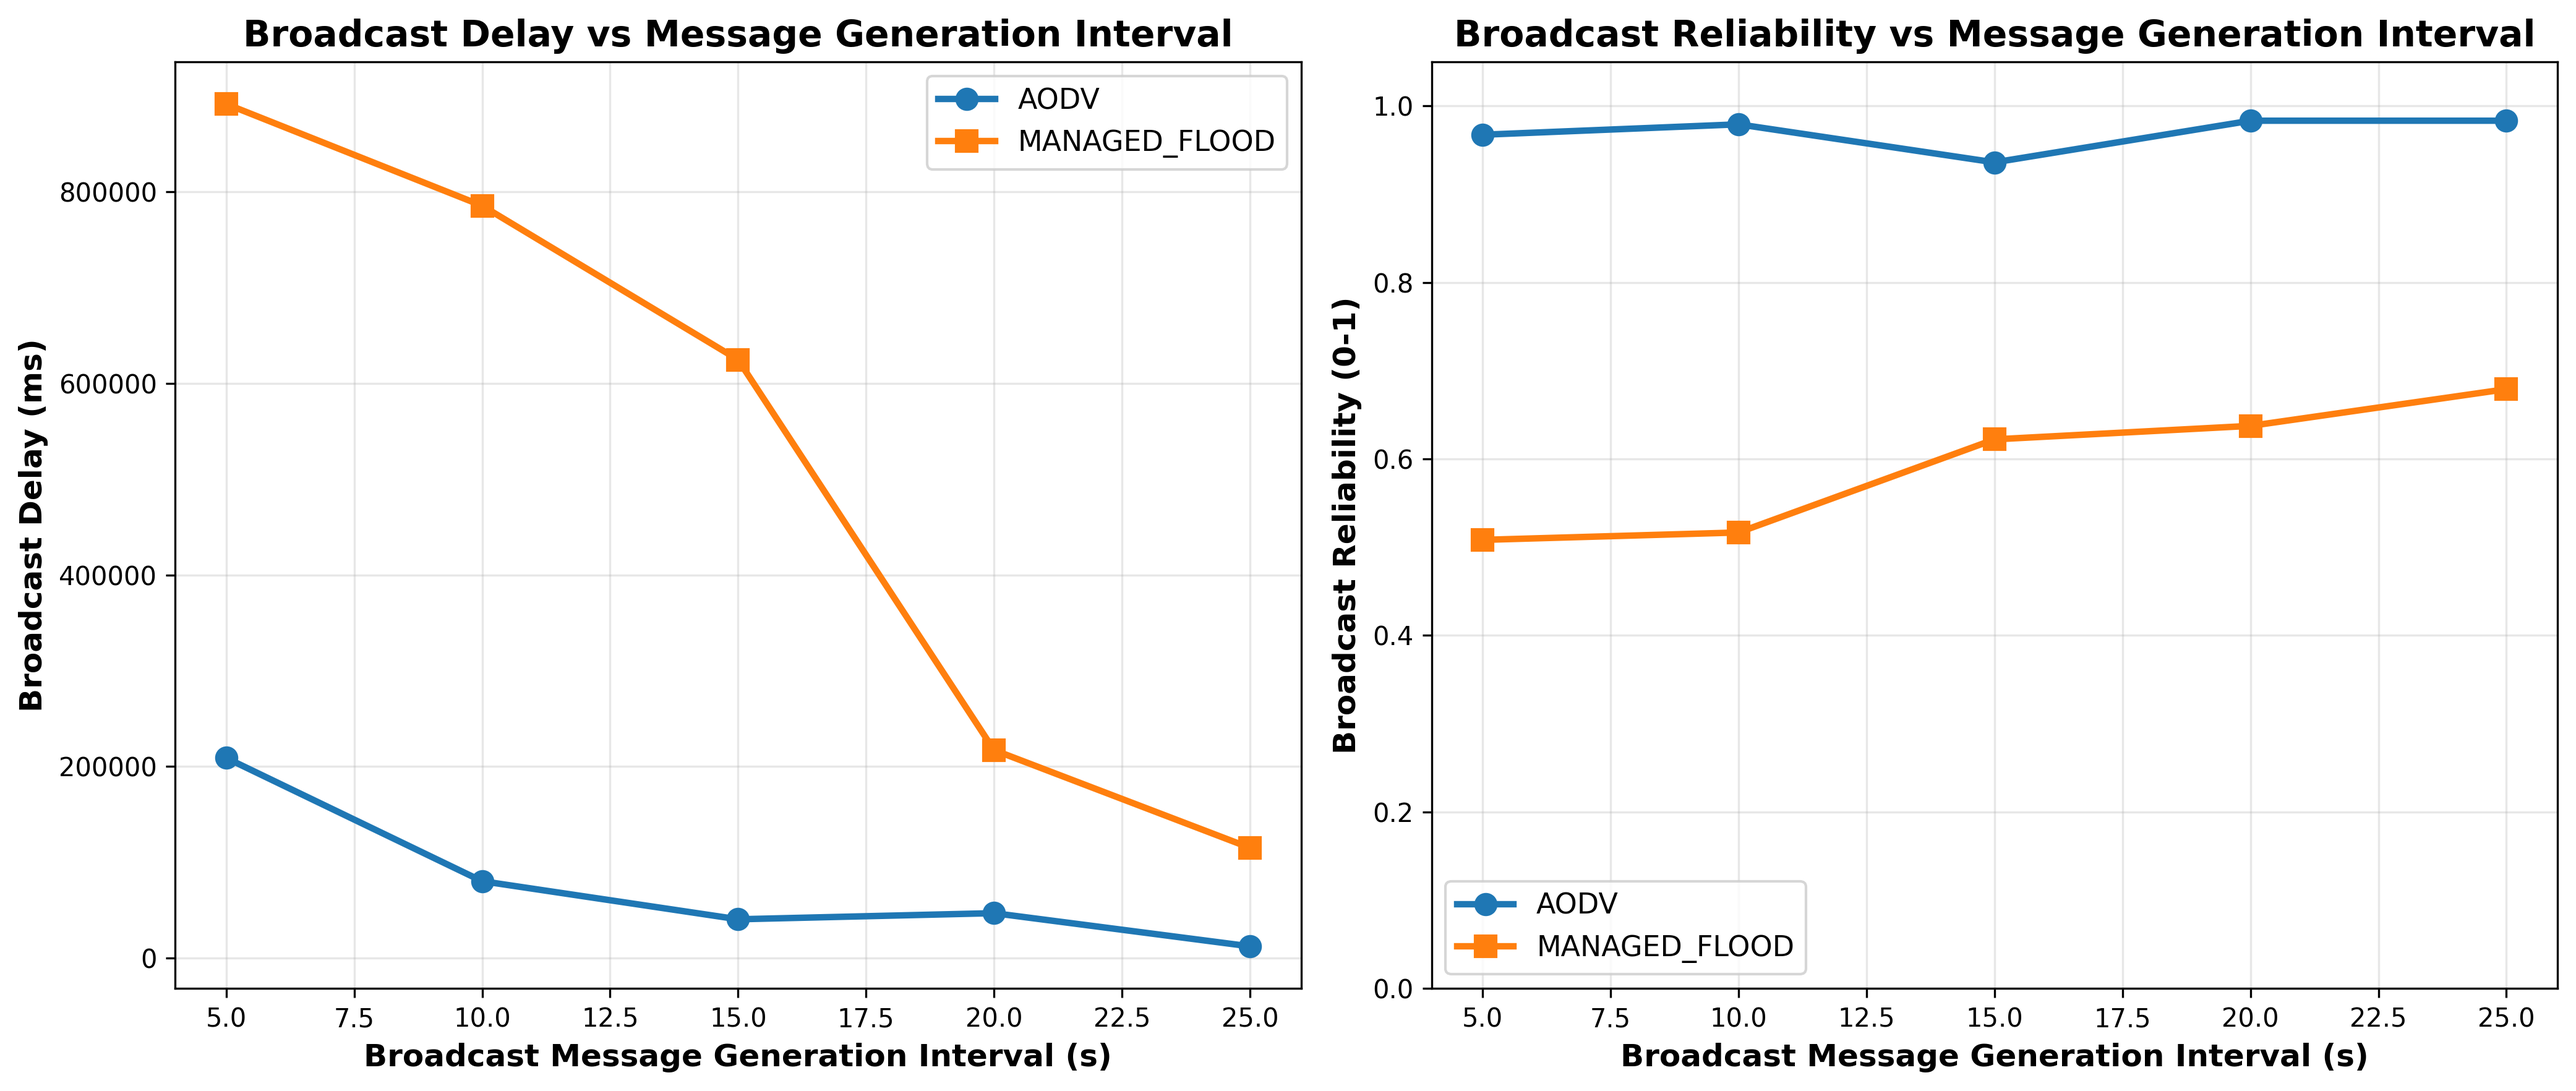
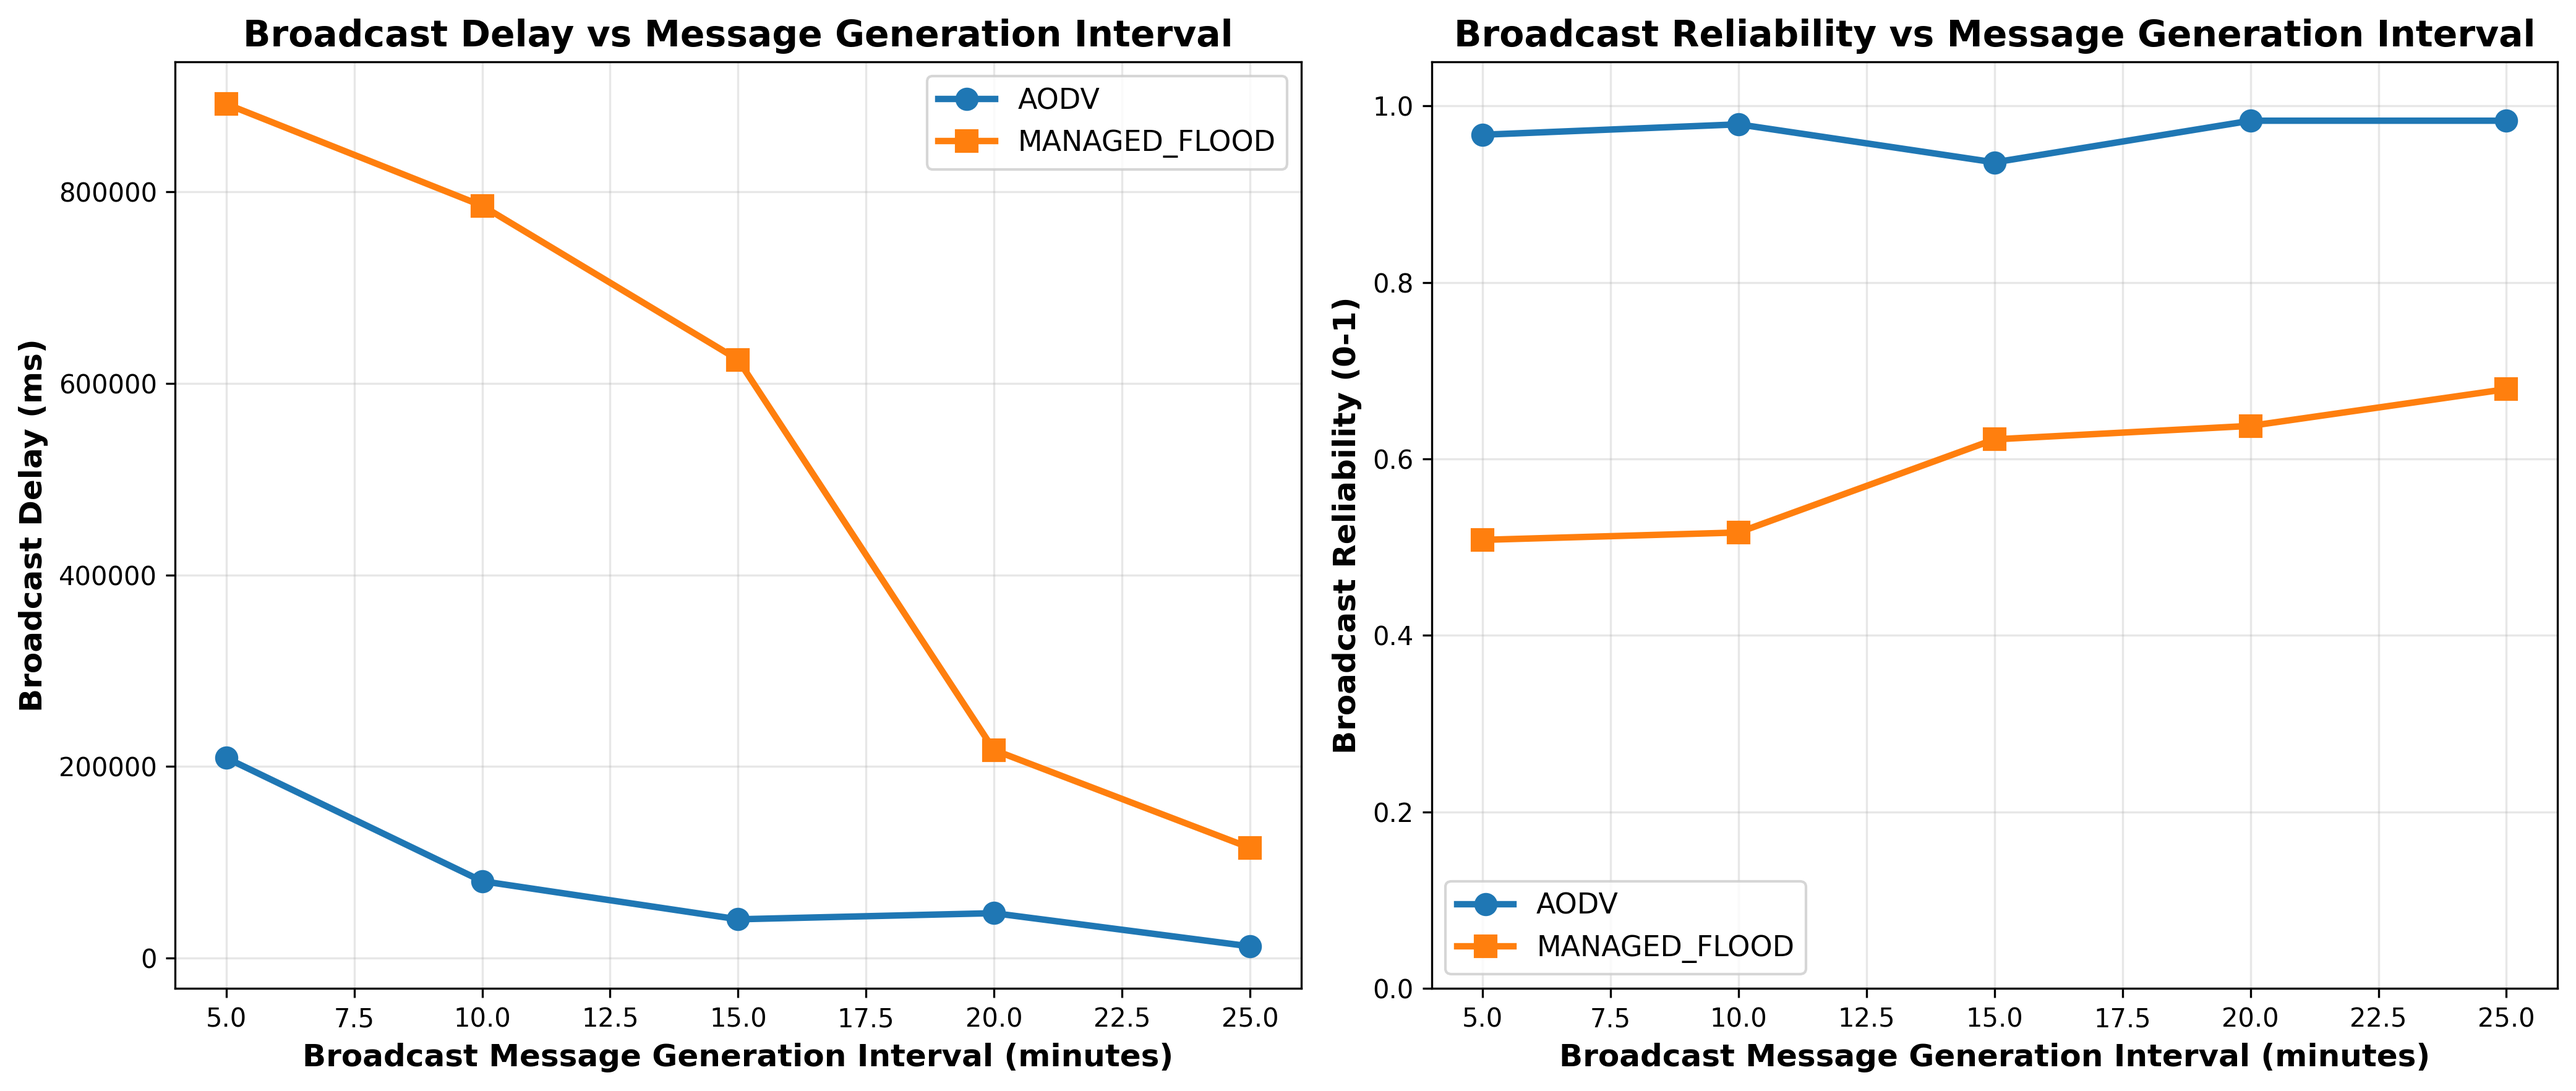
final changes to the plots

Changed region(s): [[0.593, 0.9354, 0.9364, 0.9977], [0.1248, 0.9354, 0.4682, 0.9977]]

diff --git a/plot_broadcast_interval_comparison.py b/plot_broadcast_interval_comparison.py
@@ -67,7 +67,7 @@ def plot_comparison(data, output_file=None):
                 label=routing,
                 color=colors.get(routing, None))
     
-    ax1.set_xlabel('Broadcast Message Generation Interval (s)', fontsize=12, fontweight='bold')
+    ax1.set_xlabel('Broadcast Message Generation Interval (minutes)', fontsize=12, fontweight='bold')
     ax1.set_ylabel('Broadcast Delay (ms)', fontsize=12, fontweight='bold')
     ax1.set_title('Broadcast Delay vs Message Generation Interval', fontsize=14, fontweight='bold')
     ax1.legend(fontsize=11)
@@ -86,7 +86,7 @@ def plot_comparison(data, output_file=None):
                 label=routing,
                 color=colors.get(routing, None))
     
-    ax2.set_xlabel('Broadcast Message Generation Interval (s)', fontsize=12, fontweight='bold')
+    ax2.set_xlabel('Broadcast Message Generation Interval (minutes)', fontsize=12, fontweight='bold')
     ax2.set_ylabel('Broadcast Reliability (0-1)', fontsize=12, fontweight='bold')
     ax2.set_title('Broadcast Reliability vs Message Generation Interval', fontsize=14, fontweight='bold')
     ax2.legend(fontsize=11)
@@ -139,7 +139,7 @@ def plot_combined_metric(data, output_file=None):
                 label=routing,
                 color=colors.get(routing, None))
     
-    ax.set_xlabel('Broadcast Message Generation Interval (s)', fontsize=12, fontweight='bold')
+    ax.set_xlabel('Broadcast Message Generation Interval (minutes)', fontsize=12, fontweight='bold')
     ax.set_ylabel('Combined Performance Score (0-1)', fontsize=12, fontweight='bold')
     ax.set_title('Combined Performance (Reliability + Normalized Delay)', fontsize=14, fontweight='bold')
     ax.legend(fontsize=11)
@@ -179,7 +179,7 @@ def plot_bar_comparison(data, output_file=None):
         offset = width * (i - len(routing_types)/2 + 0.5)
         ax1.bar(x + offset, delays, width, label=routing, color=colors.get(routing, None))
     
-    ax1.set_xlabel('Broadcast Message Generation Interval (s)', fontsize=12, fontweight='bold')
+    ax1.set_xlabel('Broadcast Message Generation Interval (minutes)', fontsize=12, fontweight='bold')
     ax1.set_ylabel('Broadcast Delay (ms)', fontsize=12, fontweight='bold')
     ax1.set_title('Broadcast Delay Comparison', fontsize=14, fontweight='bold')
     ax1.set_xticks(x)
@@ -194,7 +194,7 @@ def plot_bar_comparison(data, output_file=None):
         offset = width * (i - len(routing_types)/2 + 0.5)
         ax2.bar(x + offset, reliabilities, width, label=routing, color=colors.get(routing, None))
     
-    ax2.set_xlabel('Broadcast Message Generation Interval (s)', fontsize=12, fontweight='bold')
+    ax2.set_xlabel('Broadcast Message Generation Interval (minutes)', fontsize=12, fontweight='bold')
     ax2.set_ylabel('Broadcast Reliability (0-1)', fontsize=12, fontweight='bold')
     ax2.set_title('Broadcast Reliability Comparison', fontsize=14, fontweight='bold')
     ax2.set_xticks(x)

diff --git a/plots.m b/plots.m
@@ -1,5 +1,5 @@
 T = readtable('results3.csv');
-Legend = T.RoutingType;
+Legend = {'AODV - (DM,Sensor), Managed Flooding - (Broadcast)','Managed Flooding for Every Traffic'};
 BroadcastDelays = T.BroadcastDelayMean;
 SensorDelays = T.SensorDelayMean;
 DMDelays = T.DMDelayMean;
